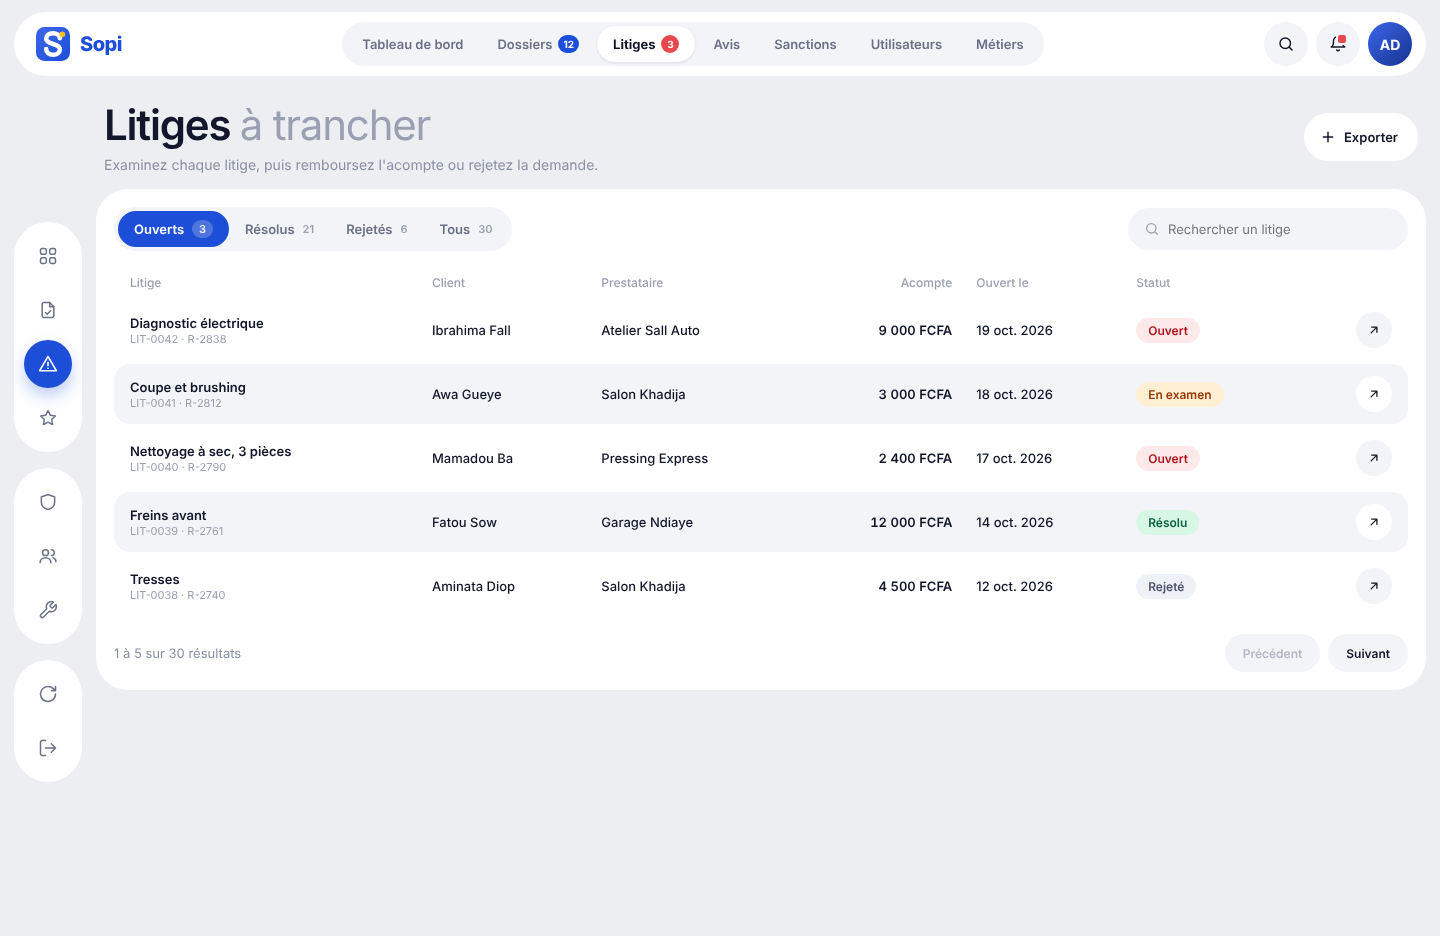
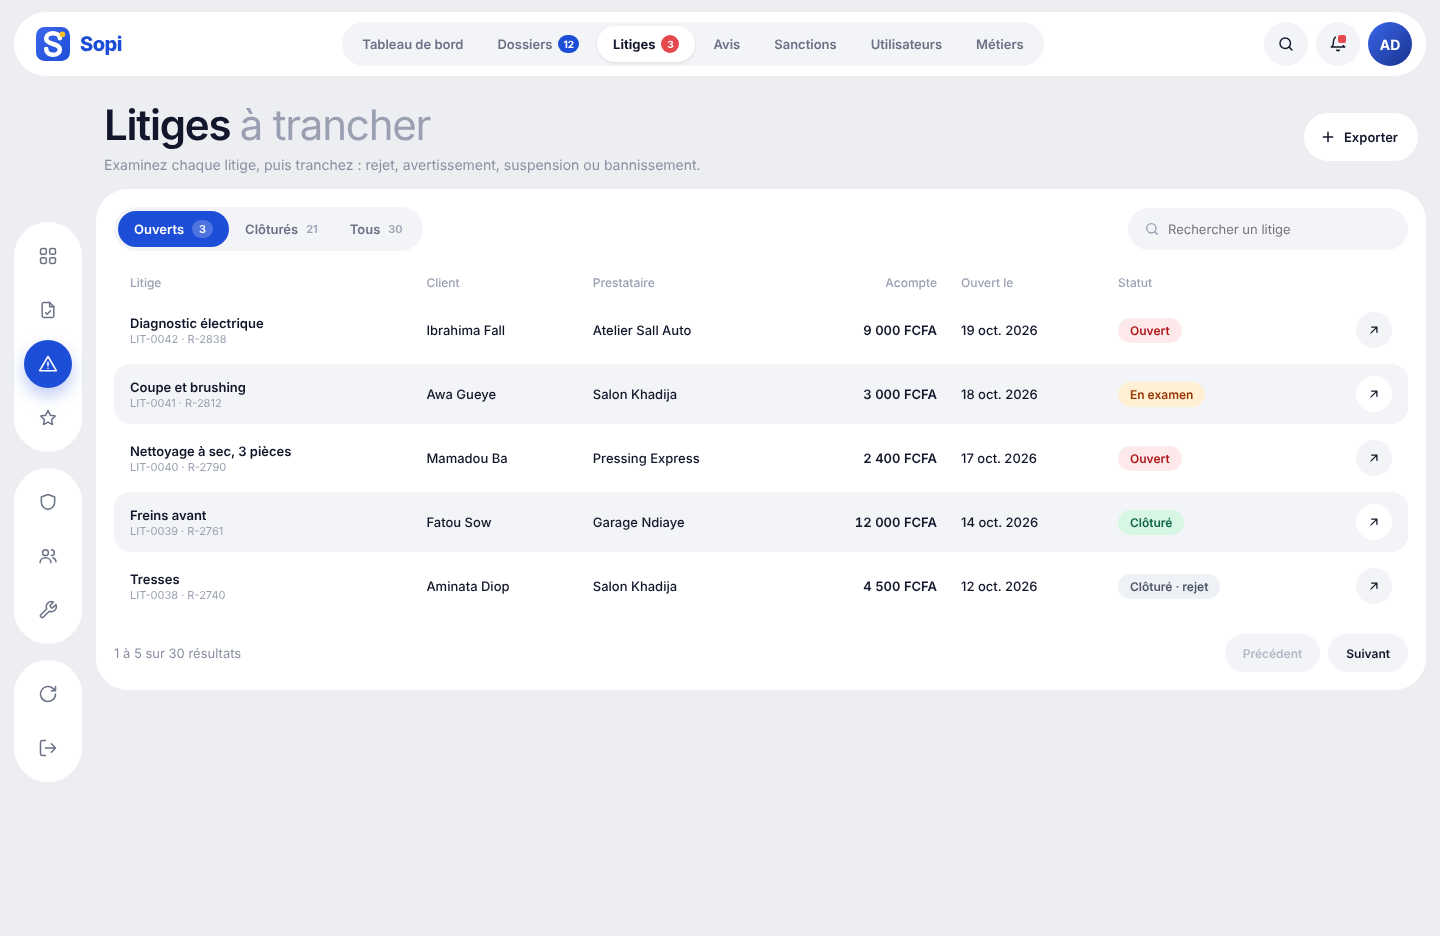
Met à jour les maquettes du back-office (onglets Dossiers, Litiges, Avis, Sanctions ; détail d'un litige)

diff --git a/admin-web/maquettes/html/Litiges.html b/admin-web/maquettes/html/Litiges.html
@@ -70,7 +70,7 @@ input:focus{outline:none;box-shadow:0 0 0 3px rgba(29,78,216,0.20)}
   <div style="display: flex; flex-wrap: wrap; align-items: center; gap: 16px; padding: 8px 8px 0">
     <div style="flex: 1 1 360px">
       <h1 style="margin: 0; font-size: 42px; line-height: 50px; font-weight: 600; letter-spacing: -1.2px">Litiges <span style="font-weight: 400; color: #9aa0b2">à trancher</span></h1>
-      <p style="margin: 6px 0 0; font-size: 14px; color: #8a90a2">Examinez chaque litige, puis remboursez l'acompte ou rejetez la demande.</p>
+      <p style="margin: 6px 0 0; font-size: 14px; color: #8a90a2">Examinez chaque litige, puis tranchez : rejet, avertissement, suspension ou bannissement.</p>
     </div>
     <button class="rond" style="height: 48px; padding: 0 20px 0 16px; border: none; border-radius: 24px; background: #ffffff; display: flex; align-items: center; gap: 8px; font-size: 13px; font-weight: 600; color: #12172b; cursor: pointer"><svg width="16" height="16" viewBox="0 0 24 24" fill="none" stroke="currentColor" stroke-width="2.2" stroke-linecap="round" stroke-linejoin="round" aria-hidden="true"><path d="M12 5v14M5 12h14"/></svg>Exporter</button>
   </div>
@@ -79,8 +79,7 @@ input:focus{outline:none;box-shadow:0 0 0 3px rgba(29,78,216,0.20)}
     <div style="display: flex; flex-wrap: wrap; align-items: center; gap: 12px">
       <div role="tablist" style="display: flex; padding: 4px; background: #f3f4f7; border-radius: 999px; overflow-x: auto; max-width: 100%">
         <a role="tab" aria-selected="true" href="#" style="display: flex; align-items: center; gap: 8px; height: 36px; padding: 0 16px; border-radius: 999px; background: #1d4ed8; color: #ffffff; font-size: 13px; font-weight: 600; white-space: nowrap">Ouverts <span style="padding: 0 7px; border-radius: 9px; background: rgba(255,255,255,0.22); font-size: 11px; line-height: 18px">3</span></a>
-        <a role="tab" aria-selected="false" href="#" style="display: flex; align-items: center; gap: 8px; height: 36px; padding: 0 16px; border-radius: 999px; color: #6b7287; font-size: 13px; font-weight: 600; white-space: nowrap">Résolus <span style="font-size: 11px; color: #9aa0b2">21</span></a>
-        <a role="tab" aria-selected="false" href="#" style="display: flex; align-items: center; gap: 8px; height: 36px; padding: 0 16px; border-radius: 999px; color: #6b7287; font-size: 13px; font-weight: 600; white-space: nowrap">Rejetés <span style="font-size: 11px; color: #9aa0b2">6</span></a>
+        <a role="tab" aria-selected="false" href="#" style="display: flex; align-items: center; gap: 8px; height: 36px; padding: 0 16px; border-radius: 999px; color: #6b7287; font-size: 13px; font-weight: 600; white-space: nowrap">Clôturés <span style="font-size: 11px; color: #9aa0b2">21</span></a>
         <a role="tab" aria-selected="false" href="#" style="display: flex; align-items: center; gap: 8px; height: 36px; padding: 0 16px; border-radius: 999px; color: #6b7287; font-size: 13px; font-weight: 600; white-space: nowrap">Tous <span style="font-size: 11px; color: #9aa0b2">30</span></a>
       </div>
       <div style="flex: 1"></div>
@@ -123,7 +122,7 @@ input:focus{outline:none;box-shadow:0 0 0 3px rgba(29,78,216,0.20)}
             <td style="padding: 12px; font-weight: 500">Fatou Sow</td><td style="padding: 12px; font-weight: 500">Garage Ndiaye</td>
             <td style="padding: 12px; text-align: right; font-weight: 600; font-variant-numeric: tabular-nums">12 000 FCFA</td>
             <td style="padding: 12px; font-weight: 500">14 oct. 2026</td>
-            <td style="padding: 12px"><span style="padding: 5px 12px; border-radius: 999px; background: #d7f7e4; color: #0e6245; font-size: 12px; font-weight: 600">Résolu</span></td>
+            <td style="padding: 12px"><span style="padding: 5px 12px; border-radius: 999px; background: #d7f7e4; color: #0e6245; font-size: 12px; font-weight: 600">Clôturé</span></td>
             <td style="padding: 12px 16px; border-radius: 0 16px 16px 0; text-align: right"><a href="Litige.html" class="rond" aria-label="Ouvrir le litige LIT-0039" style="display: inline-flex; width: 36px; height: 36px; border-radius: 18px; background: #ffffff; align-items: center; justify-content: center"><svg width="14" height="14" viewBox="0 0 24 24" fill="none" stroke="#12172b" stroke-width="2.2" stroke-linecap="round" stroke-linejoin="round" aria-hidden="true"><path d="M7 17 17 7M8 7h9v9"/></svg></a></td>
           </tr>
           <tr class="rang">
@@ -131,7 +130,7 @@ input:focus{outline:none;box-shadow:0 0 0 3px rgba(29,78,216,0.20)}
             <td style="padding: 12px; font-weight: 500">Aminata Diop</td><td style="padding: 12px; font-weight: 500">Salon Khadija</td>
             <td style="padding: 12px; text-align: right; font-weight: 600; font-variant-numeric: tabular-nums">4 500 FCFA</td>
             <td style="padding: 12px; font-weight: 500">12 oct. 2026</td>
-            <td style="padding: 12px"><span style="padding: 5px 12px; border-radius: 999px; background: #eef1f6; color: #4f566b; font-size: 12px; font-weight: 600">Rejeté</span></td>
+            <td style="padding: 12px"><span style="padding: 5px 12px; border-radius: 999px; background: #eef1f6; color: #4f566b; font-size: 12px; font-weight: 600">Clôturé · rejet</span></td>
             <td style="padding: 12px 16px; border-radius: 0 16px 16px 0; text-align: right"><a href="Litige.html" class="rond" aria-label="Ouvrir le litige LIT-0038" style="display: inline-flex; width: 36px; height: 36px; border-radius: 18px; background: #f3f4f7; align-items: center; justify-content: center"><svg width="14" height="14" viewBox="0 0 24 24" fill="none" stroke="#12172b" stroke-width="2.2" stroke-linecap="round" stroke-linejoin="round" aria-hidden="true"><path d="M7 17 17 7M8 7h9v9"/></svg></a></td>
           </tr>
         </tbody>

diff --git a/admin-web/maquettes/html/Avis.html b/admin-web/maquettes/html/Avis.html
@@ -81,7 +81,8 @@ input:focus{outline:none;box-shadow:0 0 0 3px rgba(29,78,216,0.20)}
   <section style="box-sizing: border-box; padding: 18px; background: #ffffff; border-radius: 32px; display: flex; flex-direction: column; gap: 14px">
     <div style="display: flex; flex-wrap: wrap; align-items: center; gap: 12px">
       <div role="tablist" style="display: flex; padding: 4px; background: #f3f4f7; border-radius: 999px; overflow-x: auto; max-width: 100%">
-        <a role="tab" aria-selected="true" href="#" style="display: flex; align-items: center; gap: 8px; height: 36px; padding: 0 16px; border-radius: 999px; background: #1d4ed8; color: #ffffff; font-size: 13px; font-weight: 600; white-space: nowrap">Publiés <span style="padding: 0 7px; border-radius: 9px; background: rgba(255,255,255,0.22); font-size: 11px; line-height: 18px">142</span></a>
+        <a role="tab" aria-selected="true" href="#" style="display: flex; align-items: center; gap: 8px; height: 36px; padding: 0 16px; border-radius: 999px; background: #1d4ed8; color: #ffffff; font-size: 13px; font-weight: 600; white-space: nowrap">À modérer <span style="padding: 0 7px; border-radius: 9px; background: rgba(255,255,255,0.22); font-size: 11px; line-height: 18px">142</span></a>
+        <a role="tab" aria-selected="false" href="#" style="display: flex; align-items: center; gap: 8px; height: 36px; padding: 0 16px; border-radius: 999px; color: #6b7287; font-size: 13px; font-weight: 600; white-space: nowrap">Signalés <
         <a role="tab" aria-selected="false" href="#" style="display: flex; align-items: center; gap: 8px; height: 36px; padding: 0 16px; border-radius: 999px; color: #6b7287; font-size: 13px; font-weight: 600; white-space: nowrap">Masqués <span style="font-size: 11px; color: #9aa0b2">7</span></a>
         <a role="tab" aria-selected="false" href="#" style="display: flex; align-items: center; gap: 8px; height: 36px; padding: 0 16px; border-radius: 999px; color: #6b7287; font-size: 13px; font-weight: 600; white-space: nowrap">Tous <span style="font-size: 11px; color: #9aa0b2">149</span></a>
       </div>

diff --git a/admin-web/maquettes/html/Dossiers.html b/admin-web/maquettes/html/Dossiers.html
@@ -79,7 +79,7 @@ input:focus{outline:none;box-shadow:0 0 0 3px rgba(29,78,216,0.20)}
     <div style="display: flex; flex-wrap: wrap; align-items: center; gap: 12px">
       <div role="tablist" style="display: flex; padding: 4px; background: #f3f4f7; border-radius: 999px; overflow-x: auto; max-width: 100%">
         <a role="tab" aria-selected="true" href="#" style="display: flex; align-items: center; gap: 8px; height: 36px; padding: 0 16px; border-radius: 999px; background: #1d4ed8; color: #ffffff; font-size: 13px; font-weight: 600; white-space: nowrap">En attente <span style="padding: 0 7px; border-radius: 9px; background: rgba(255,255,255,0.22); font-size: 11px; line-height: 18px">12</span></a>
-        <a role="tab" aria-selected="false" href="#" style="display: flex; align-items: center; gap: 8px; height: 36px; padding: 0 16px; border-radius: 999px; color: #6b7287; font-size: 13px; font-weight: 600; white-space: nowrap">Validés <span style="font-size: 11px; color: #9aa0b2">48</span></a>
+        <a role="tab" aria-selected="false" href="#" style="display: flex; align-items: center; gap: 8px; height: 36px; padding: 0 16px; border-radius: 999px; color: #6b7287; font-size: 13px; font-weight: 600; white-space: nowrap">Acceptés <span style="font-size: 11px; color: #9aa0b2">48</span></a>
         <a role="tab" aria-selected="false" href="#" style="display: flex; align-items: center; gap: 8px; height: 36px; padding: 0 16px; border-radius: 999px; color: #6b7287; font-size: 13px; font-weight: 600; white-space: nowrap">Refusés <span style="font-size: 11px; color: #9aa0b2">9</span></a>
         <a role="tab" aria-selected="false" href="#" style="display: flex; align-items: center; gap: 8px; height: 36px; padding: 0 16px; border-radius: 999px; color: #6b7287; font-size: 13px; font-weight: 600; white-space: nowrap">Tous <span style="font-size: 11px; color: #9aa0b2">69</span></a>
       </div>

diff --git a/admin-web/maquettes/html/Sanctions.html b/admin-web/maquettes/html/Sanctions.html
@@ -97,7 +97,7 @@ input:focus{outline:none;box-shadow:0 0 0 3px rgba(29,78,216,0.20)}
     <div style="display: flex; flex-wrap: wrap; align-items: center; gap: 12px">
       <div role="tablist" style="display: flex; padding: 4px; background: #f3f4f7; border-radius: 999px; overflow-x: auto; max-width: 100%">
         <a role="tab" aria-selected="true" href="#" style="display: flex; align-items: center; gap: 8px; height: 36px; padding: 0 16px; border-radius: 999px; background: #1d4ed8; color: #ffffff; font-size: 13px; font-weight: 600; white-space: nowrap">Actives <span style="padding: 0 7px; border-radius: 9px; background: rgba(255,255,255,0.22); font-size: 11px; line-height: 18px">4</span></a>
-        <a role="tab" aria-selected="false" href="#" style="display: flex; align-items: center; gap: 8px; height: 36px; padding: 0 16px; border-radius: 999px; color: #6b7287; font-size: 13px; font-weight: 600; white-space: nowrap">Levées <span style="font-size: 11px; color: #9aa0b2">18</span></a>
+        <a role="tab" aria-selected="false" href="#" style="display: flex; align-items: center; gap: 8px; height: 36px; padding: 0 16px; border-radius: 999px; color: #6b7287; font-size: 13px; font-weight: 600; white-space: nowrap">Terminées ou levées <span style="font-size: 11px; color: #9aa0b2">18</span></a>
         <a role="tab" aria-selected="false" href="#" style="display: flex; align-items: center; gap: 8px; height: 36px; padding: 0 16px; border-radius: 999px; color: #6b7287; font-size: 13px; font-weight: 600; white-space: nowrap">Toutes <span style="font-size: 11px; color: #9aa0b2">22</span></a>
       </div>
     </div>

diff --git a/admin-web/maquettes/html/Litige.html b/admin-web/maquettes/html/Litige.html
@@ -72,8 +72,7 @@ a{text-decoration:none;color:inherit}
       <h1 style="margin: 0; font-size: 36px; line-height: 44px; font-weight: 600; letter-spacing: -1px">Litige <span style="font-weight: 400; color: #9aa0b2">LIT-0042</span></h1>
       <div style="margin-top: 6px; display: flex; align-items: center; gap: 10px; flex-wrap: wrap; font-size: 13px; color: #8a90a2"><span style="padding: 5px 12px; border-radius: 999px; background: #fde9e9; color: #b0161b; font-size: 12px; font-weight: 700">Ouvert</span>Ouvert le 19 oct. 2026 à 15:02 · sans décision depuis 48 h</div>
     </div>
-    <button class="btnblanc" style="height: 48px; padding: 0 22px; border: none; border-radius: 24px; background: #ffffff; font-size: 13px; font-weight: 700; color: #12172b; cursor: pointer">Rejeter le litige</button>
-    <button class="btnbleu" style="height: 48px; padding: 0 24px; border: none; border-radius: 24px; background: #1d4ed8; font-size: 13px; font-weight: 700; color: #ffffff; cursor: pointer; box-shadow: 0 8px 18px rgba(29,78,216,0.30)">Rembourser l'acompte</button>
+    <button class="btnbleu" style="height: 48px; padding: 0 24px; border: none; border-radius: 24px; background: #1d4ed8; font-size: 13px; font-weight: 700; color: #ffffff; cursor: pointer; box-shadow: 0 8px 18px rgba(29,78,216,0.30)">Trancher le litige</button>
   </div>
 
   <div style="display: flex; flex-wrap: wrap; gap: 14px; align-items: flex-start">
